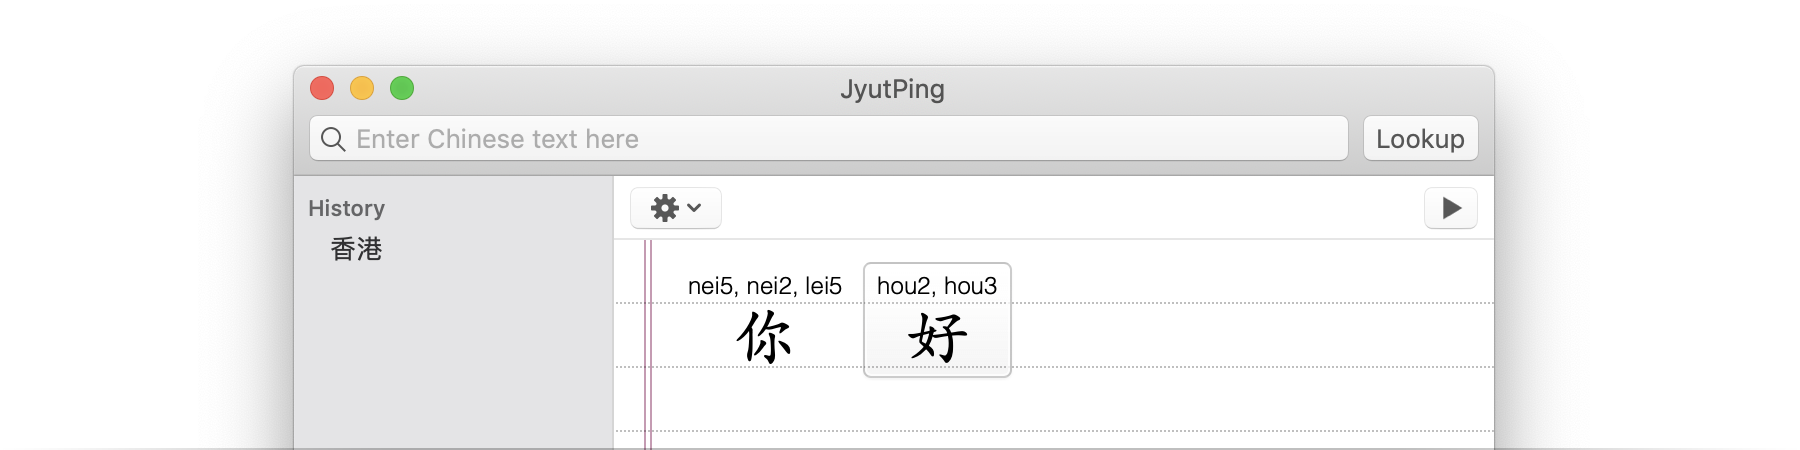
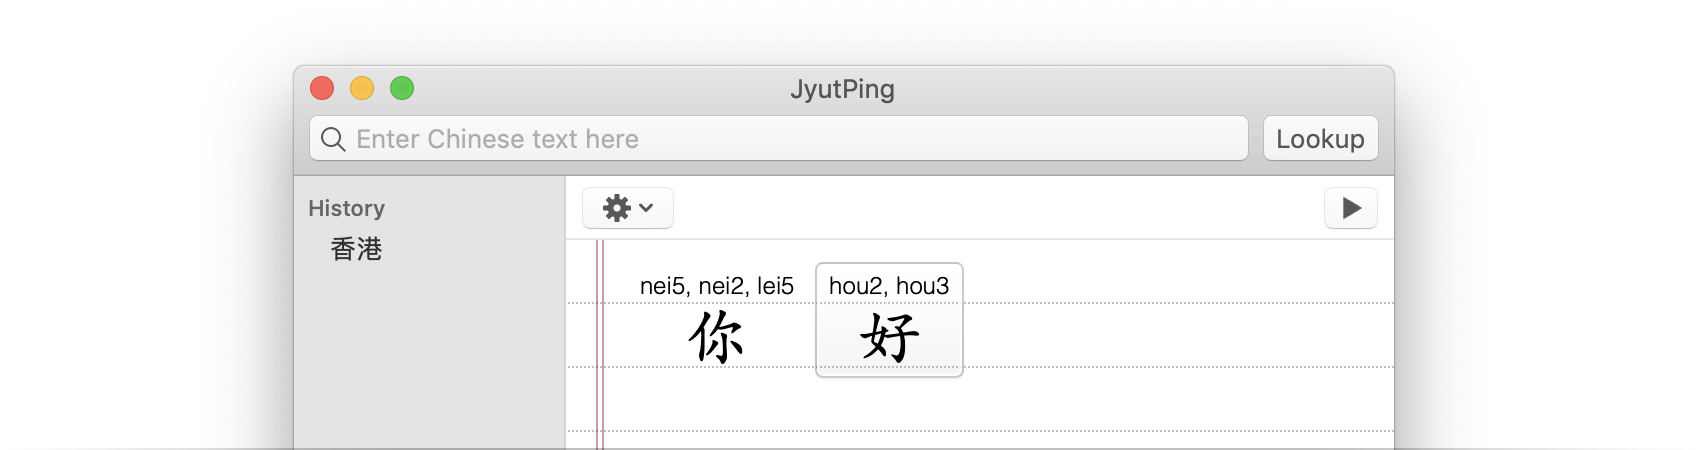
Adjust for GitHub preview

diff --git a/README.md b/README.md
@@ -10,7 +10,7 @@ Download the code run with Xcode. You can also download a complied version here:
 
 If you encounter a warning saying "from an unidentified developer", see this page <https://support.apple.com/kb/ph25088> for help.
 
-<img width="900" height="225" alt="JyutPing" src="https://raw.githubusercontent.com/catjia1011/JyutPing/master/preview.png"/>
+<img width="850" alt="JyutPing" src="https://raw.githubusercontent.com/catjia1011/JyutPing/master/preview.png"/>
 
 
 ## License
